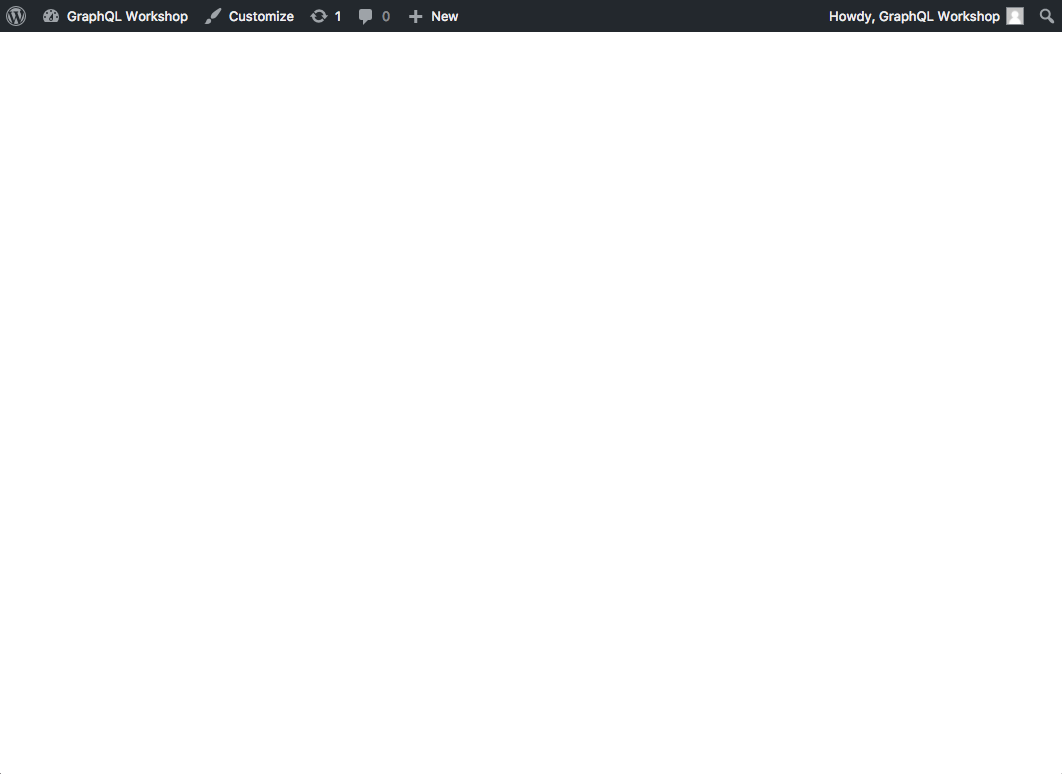
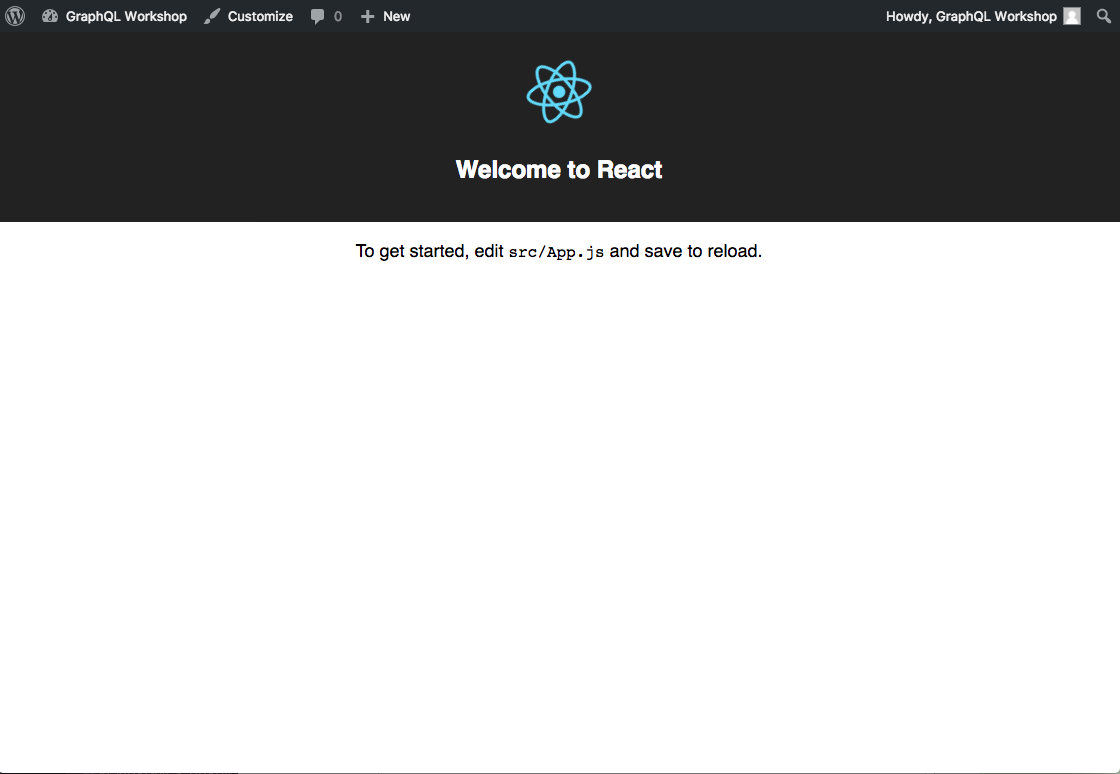
step-1-add-create-react-app
This final step is just updating the theme screenshot and stylesheet to indicate the changes

Changed region(s): [[0.0, 0.0, 1.0, 0.3411], [0.0, 0.9922, 1.0, 1.0]]

diff --git a/style.css b/style.css
@@ -1,11 +1,11 @@
 /*
-Theme Name: GraphQL Workshop - Starting Point
+Theme Name: GraphQL Workshop - Create React App
 Theme URI: https://wpgraphql.com/
 Author: WPGraphQL
 Author URI: https://wpgraphql.com/
-Description: This is the starting point for the GraphQL Workshop. We're starting at a very basic spot with very little
-going on.
-Version: 0.0.1
+Description: Create React App - At this stage, we've now installed the Create React App boilerplate within our WordPress
+theme and have used our inc/setup.php file to enqueue assets to the WordPress theme
+Version: 0.0.2
 License: GNU General Public License v2 or later
 License URI: http://www.gnu.org/licenses/gpl-2.0.html
 Tags: JavaScript, GraphQL, Single Page App
